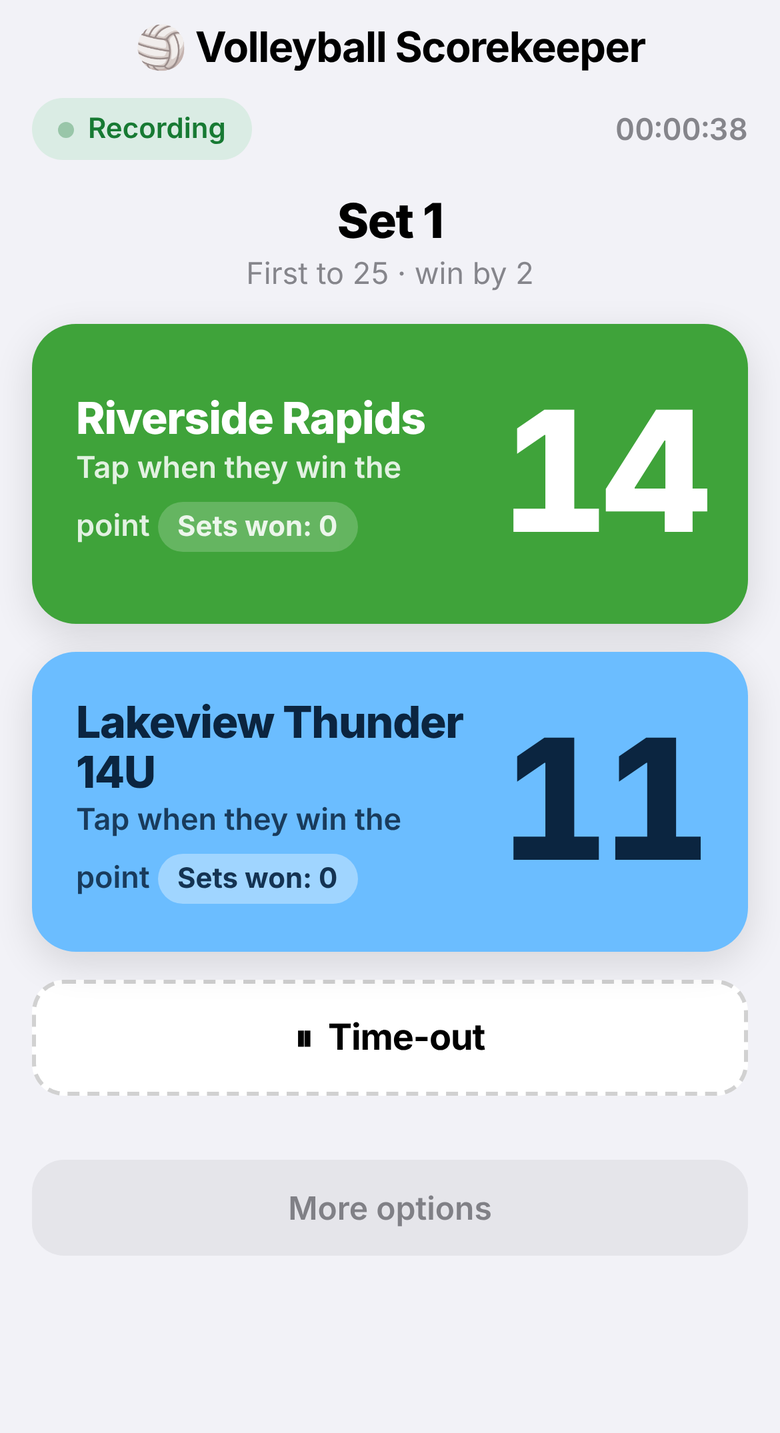
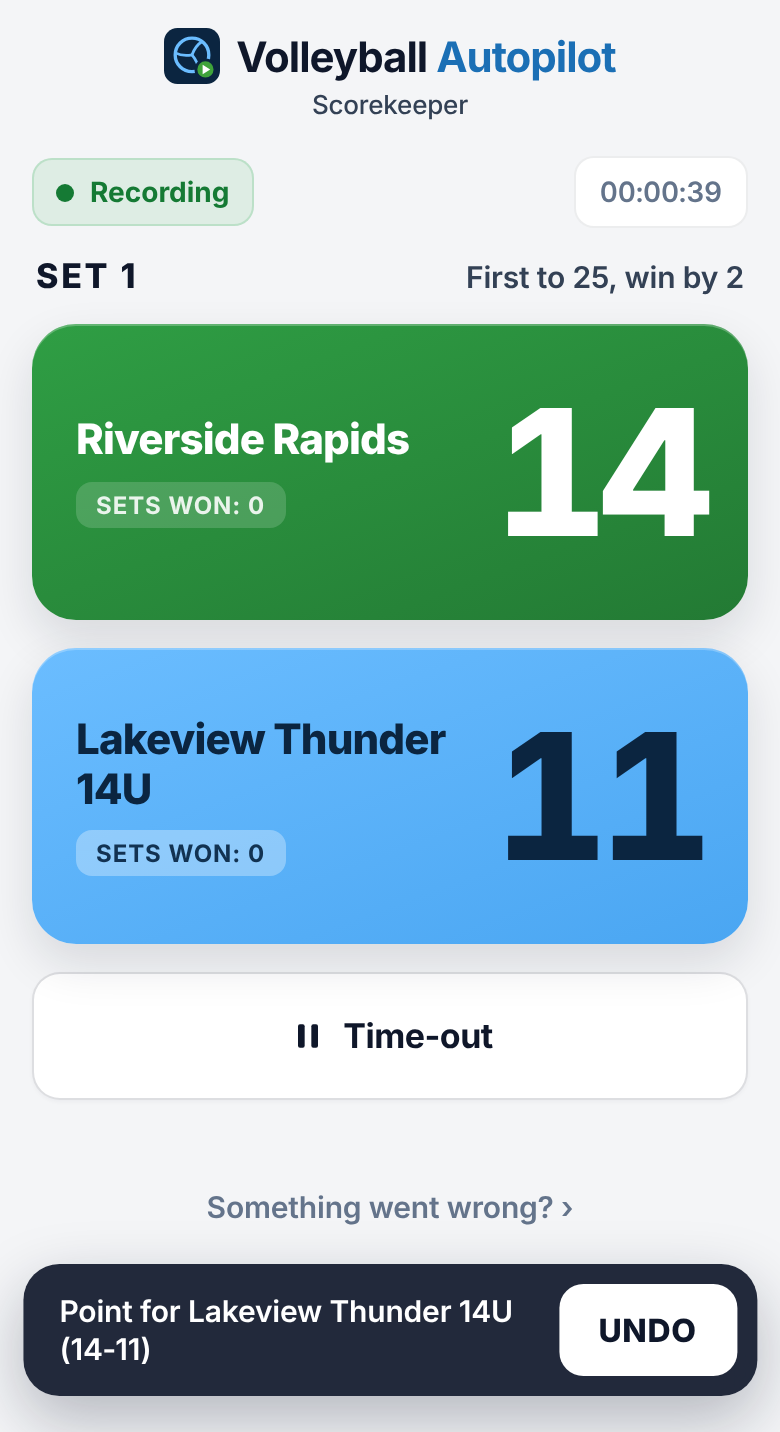
README: new scorekeeper screenshots and wording for the current screens
Claude-Session: https://claude.ai/code/session_012ag3eb2uDPURatWhE9fwNU

diff --git a/README.md b/README.md
@@ -189,19 +189,23 @@ to find every line that needs a personal value.
    follow the screens — either live at the game (press record on the camera,
    then START) or later during editing (play the assembled timeline back at
    1x speed and tap along). Tap the big team button when a team wins a
-   rally; a 5-second UNDO bar catches mis-taps. When a set is won the app
-   switches to a set-over screen: stop the camera and tap **I stopped the
-   camera** (or **Camera is still recording** if you keep rolling), then tap
-   **Camera is recording again** when play resumes. Mid-set camera stops,
-   removing a point and ending early are under **More options**. When the
-   match is won, tap **FINISH MATCH** — the file is sent to Google Drive
-   automatically if you set that up, and **Export match file** is always
-   there as a backup.
+   rally; the UNDO bar at the bottom always says what it will take back.
+   **Time-out** marks a time-out (tap it again when play restarts) so the
+   video can skip the dead time. When a set is won the app switches to a
+   set-over screen: stop the camera and tap **I stopped the camera** (or
+   **I left it recording, start set 2** if you keep rolling), then tap
+   **The camera is recording again** when play resumes. Mid-set camera
+   stops, taking a point away and ending early are under **Something went
+   wrong?**. When the match is won, a 30-second countdown says when to stop
+   the camera; tap **FINISH MATCH** — the file is sent to Google Drive
+   automatically if you set that up, and **Save the match file** (under
+   **Scores didn't send?**) is always there as a backup. Once opened, the
+   page keeps a copy on the phone, so it reopens even with no signal.
 
    <p>
-   <img src="docs/scorekeeper-setup.png" width="260" alt="Scorekeeper setup screen: our team, opponent, and the match format (sets to 25 or 15, best of 3, 2 sets, scrimmage)">
+   <img src="docs/scorekeeper-setup.png" width="260" alt="Scorekeeper setup screen: our team, other team, and how many sets (sets to 25 or 15, best 2 of 3, 2 sets only, scrimmage)">
    &nbsp;
-   <img src="docs/scorekeeper-live.png" width="260" alt="Scorekeeper during a set: one big button per team showing the score, recording timer, Time-out and More options">
+   <img src="docs/scorekeeper-live.png" width="260" alt="Scorekeeper during a set: recording status and match clock, one big button per team with the score and sets won, Time-out, Something went wrong? and the UNDO bar">
    </p>
 6. **Build and apply the scoreboard**: with the Fusion Composition clip
    selected and the Fusion page open, run `run-overlay.lua` from the
@@ -311,7 +315,7 @@ Turn it off with `AUTO_ALIGN_SETS = false`.
   it on V2 and stretching it to fit has to be done by hand (see step 4 of the manual workflow).
 - **An accidental mid-set "camera stopped" in the scorekeeper app can't be
   undone** — the excluded time is baked into every timestamp logged after
-  it. It's tucked under More options behind a two-tap confirm, and
+  it. It's tucked under Something went wrong? behind a two-tap confirm, and
   automatic set alignment corrects mistimed taps at set breaks.
 - **Team names are width-estimated for truncation.** Positioning is exact
   (edge-anchored), but the "too long, add ..." check uses an average
